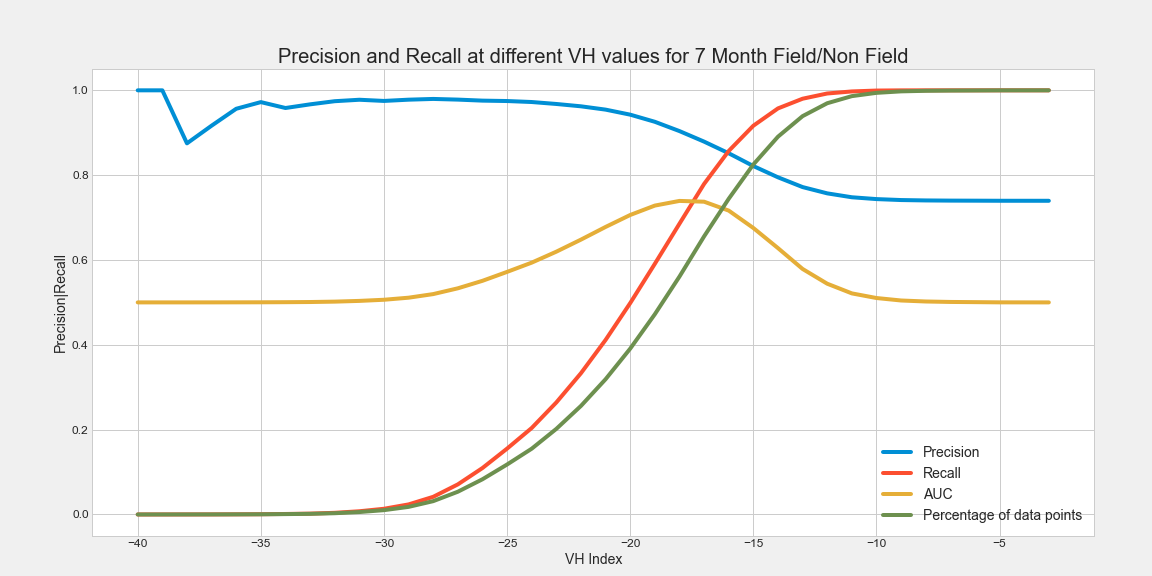
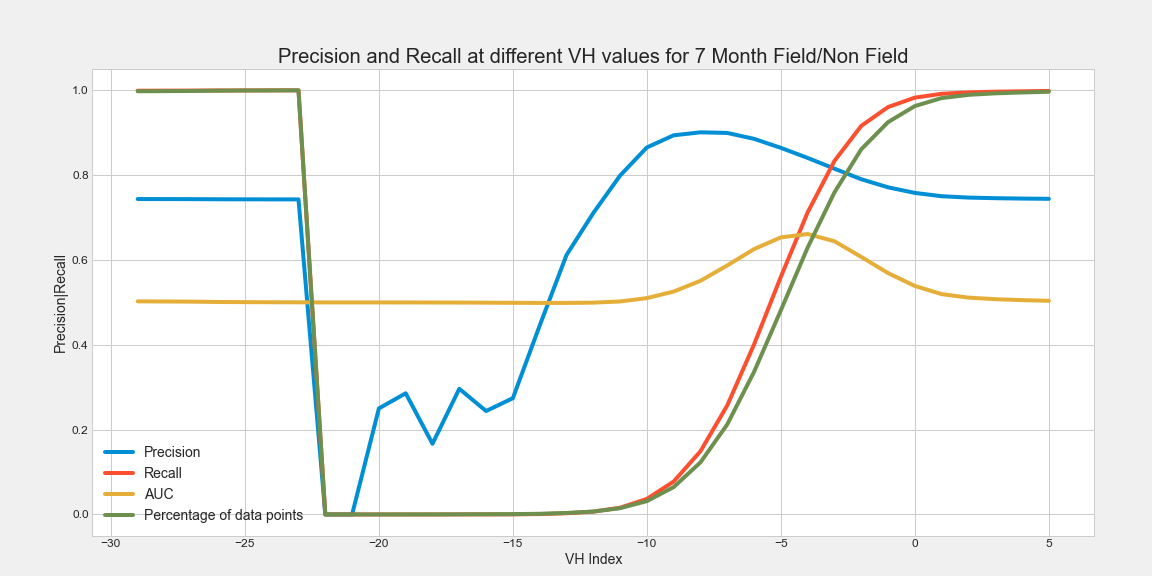
VV scatter

diff --git a/modeling/explorationNonFields.py b/modeling/explorationNonFields.py
@@ -44,9 +44,9 @@ only_field["date"] = pd.to_datetime(only_field["date"])
 df = pd.concat([non_field, only_field])
 # %%
 plt.figure()
-plt.title("Yearly horizontal backscatter evolution of fields and non-fields")
-plt.plot(only_field.groupby("date")["VH"].mean(), label="Fields", color="r")
-plt.plot(non_field.groupby("date")["VH"].mean(), label="Non Fields", color="b")
+plt.title("Yearly vertical backscatter evolution of fields and non-fields")
+plt.plot(only_field.groupby("date")["VV"].mean(), label="Fields", color="r")
+plt.plot(non_field.groupby("date")["VV"].mean(), label="Non Fields", color="b")
 plt.xticks(rotation=45)
 plt.ylabel("VH Backscatter")
 plt.legend()
@@ -155,15 +155,15 @@ tp / (tp + 0.5 * (fp + fn))
 
 # %%
 data = df[df["month"] == 7]
-data = data.sort_values("VH")
-vals = set([int(i) for i in data["VH"].values])
+data = data.sort_values("VV")
+vals = set([int(i) for i in data["VV"].values])
 # %%
 prec = []
 rec = []
 aucs = []
 perc = []
 for val in vals:
-    preds = np.where(data.VH < val, 1, 0)
+    preds = np.where(data.VV < val, 1, 0)
     tn, fp, fn, tp = confusion_matrix(data["label"].values, preds).ravel()
     precision = tp / (tp + fp)
     recall = tp / (tp + fn)
@@ -171,21 +171,20 @@ for val in vals:
     prec.append(precision)
     rec.append(recall)
 
-    perc.append(data[data.VH < val].shape[0] / data.shape[0])
+    perc.append(data[data.VV < val].shape[0] / data.shape[0])
 
 # %%
 plt.figure()
 plt.title("Precision and Recall at different VH values for 7 Month Field/Non Field")
-plt.plot(list(vals), prec, label="Precision")
-plt.plot(list(vals), rec, label="Recall")
-plt.plot(list(vals), aucs, label="AUC")
-plt.plot(list(vals), perc, label="Percentage of data points")
+plt.plot(sorted(list(vals)), prec, label="Precision")
+plt.plot(sorted(list(vals)), rec, label="Recall")
+plt.plot(sorted(list(vals)), aucs, label="AUC")
+plt.plot(sorted(list(vals)), perc, label="Percentage of data points")
 plt.xlabel("VH Index")
 plt.ylabel("Precision|Recall")
 plt.legend()
 plt.savefig("images/precisionRecallvariationNonField.png")
 plt.show()
-
 # %%
 data[data.VH < val].shape[0]
 # %%
